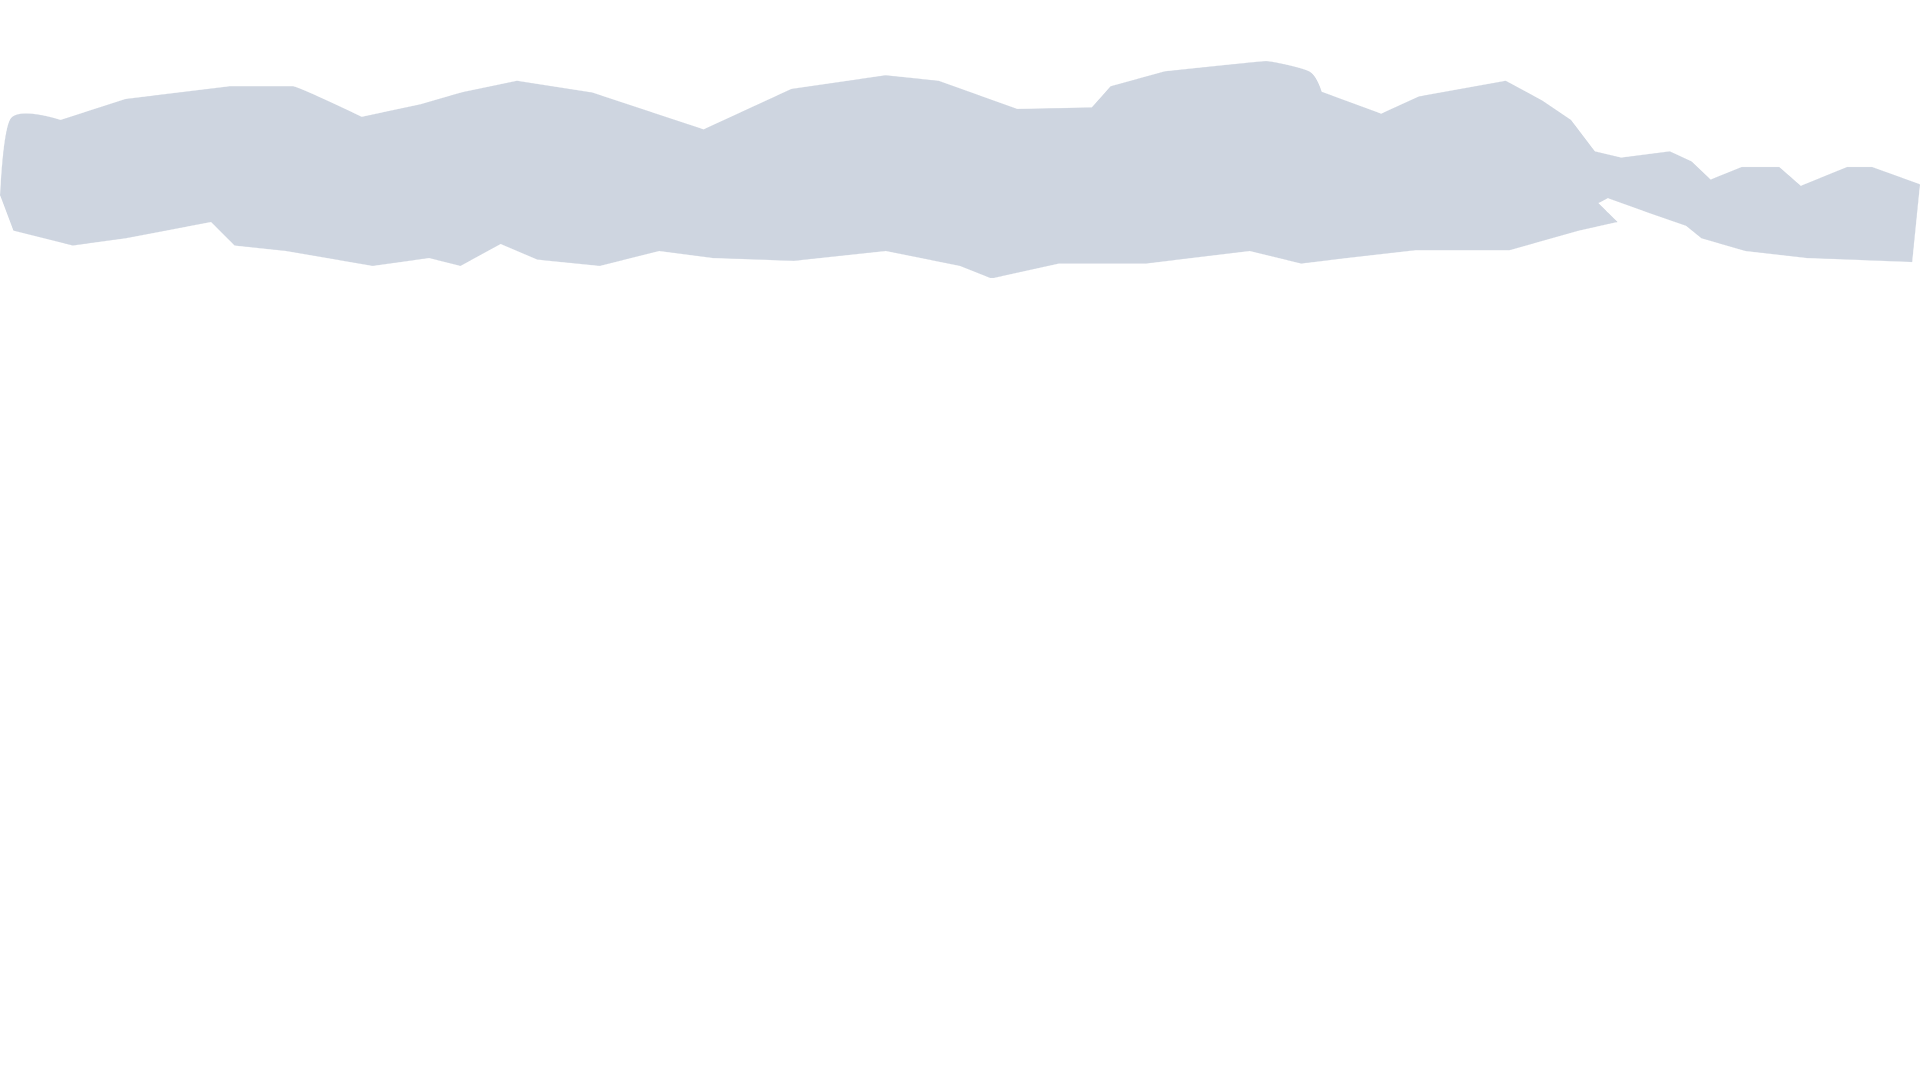
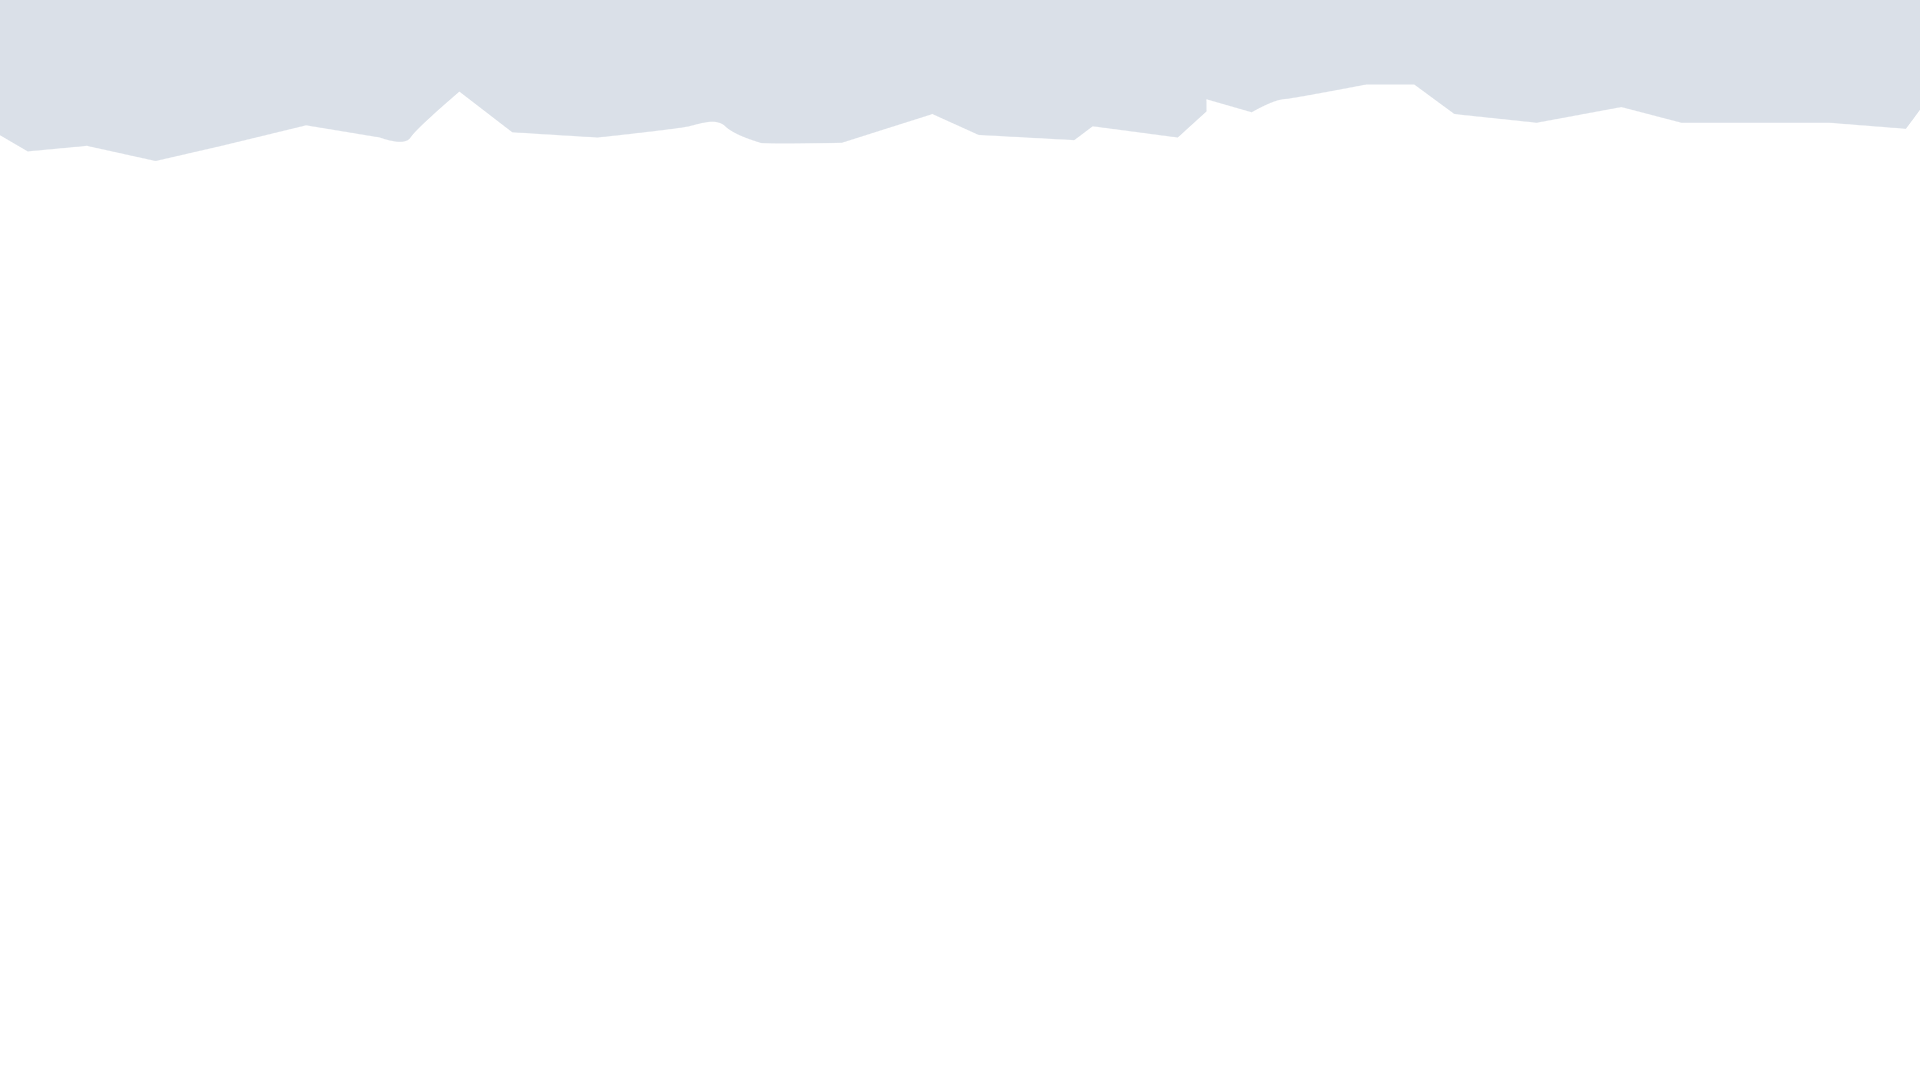
Parallax

Changed region(s): [[0.0, 0.0, 1.0, 0.275]]

diff --git a/src/components/ParallaxContent.jsx b/src/components/ParallaxContent.jsx
@@ -1,9 +1,3 @@
-import React from 'react';
-import { Parallax, ParallaxLayer } from '@react-spring/parallax';
-import Video from '../layouts/Video';
-import Text from '../layouts/Text';
-import Img from '../layouts/Img';
-
 const sectionOneTexts = [
     'This week is “Right to Know” Week in Canada and around the world.',
     'Access to information is a cornerstone of Canadian democracy, keeping governments accountable, encouraging citizen participation, and giving Canadians access to the information their taxes pay for.',
@@ -19,11 +13,13 @@ const sectionOneTexts = [
     'And the faltering system has wrought havoc on Canadian journalism, contributing to distrust and a plague of misinformation and disinformation fueled by the government itself.',
     'How did this happen?'
 ];
+
 const sectionOneVids = [
     '/vids/Vid1.mp4',
     '/vids/Vid2.mp4',
     '/vids/Vid3.mp4'
 ]
+
 const sectionOneImgs = [
     '/sectionOne/slide8.png',
     '/sectionOne/slide12.png',
@@ -32,10 +28,31 @@ const sectionOneImgs = [
     '/sectionOne/slide10.png',
     '/sectionOne/slide11.png'
 ];
+
+const bannerOneImgs = [
+    '/bannerOne/HOCHill-Layer1.png',
+    '/bannerOne/HOCHill-Layer2.png',
+    '/bannerOne/HOCHill-Layer3.png',
+    '/bannerOne/HOCHill-Layer4.png',
+    '/bannerOne/HOCHill-Layer5.png'
+];
+
+import React from 'react';
+import { Parallax, ParallaxLayer } from '@react-spring/parallax';
+import Video from '../layouts/Video';
+import Text from '../layouts/Text';
+import Img from '../layouts/Img';
+
 export default function ParallaxContent() {
-  return (
-    <Parallax pages={33} innerStyle={{backgroundImage: 'linear-gradient(#02000f,#dae0e8)'}}>
-        <ParallaxLayer offset={0} factor={3} speed={0}/>
+return (
+    <Parallax pages={100}>
+        {/* SECTION ONE */}
+        <ParallaxLayer 
+            offset={0} 
+            factor={34} 
+            speed={0}
+            style={{backgroundImage: 'linear-gradient(#02000f,#dae0e8)'}}
+        />
         <ParallaxLayer sticky={{ start: 0, end: 6 }}>
             <Video videoPath={sectionOneVids[0]} alignment='VidCenter'/>
         </ParallaxLayer>
@@ -108,6 +125,40 @@ export default function ParallaxContent() {
         <ParallaxLayer sticky={{ start: 32, end: 33 }}>
             <Text text={sectionOneTexts[12]} background='BlackBg' alignment='TextCenter'/>
         </ParallaxLayer>
+
+        {/* BANNER ONE */}
+        <ParallaxLayer 
+            offset={34} 
+            factor={0.5} 
+            speed={0}
+            style={{backgroundImage: 'linear-gradient(#dae0e8,#dae0e8)'}}
+        />
+        <ParallaxLayer 
+            offset={34.25} 
+            factor={1} 
+            speed={0}
+            style={{backgroundImage: 'linear-gradient(#d8e1ef,#d8e1ef)'}}
+        />
+        <ParallaxLayer offset={34.5} speed={0.5}>
+            <Img img={bannerOneImgs[1]} alignment='ImgCenter'/>
+        </ParallaxLayer>
+        <ParallaxLayer offset={34.5} speed={0.75}>
+            <Img img={bannerOneImgs[2]} alignment='ImgCenter'/>
+        </ParallaxLayer>
+        <ParallaxLayer offset={34} speed={0.1}>
+            <Img img={bannerOneImgs[3]} alignment='ImgHardTop'/>
+        </ParallaxLayer>
+        <ParallaxLayer offset={34.8} speed={0.8}>
+            <Img img={bannerOneImgs[4]} alignment='ImgCenterBottom'/>
+        </ParallaxLayer>
+
+        {/* SECTION TWO */}
+        <ParallaxLayer 
+            offset={35} 
+            factor={35} 
+            speed={0}
+            style={{backgroundImage: 'linear-gradient(#0a0149,#DDDCE2)'}}
+        />
+
     </Parallax>
-  );
-}
+);}

diff --git a/src/layouts/Img.css b/src/layouts/Img.css
@@ -21,6 +21,20 @@
     bottom: 10%;
     transform: translateX(-50%);
 }
+.ImgCenter
+{
+    position: absolute;
+    left: 50%;
+    bottom: 35%;
+    transform: translateX(-50%);
+}
+.ImgHardTop
+{
+    position: absolute;
+    left: 50%;
+    Top: 0%;
+    transform: translateX(-50%);
+}
 
 
 /* Tablet styles */
